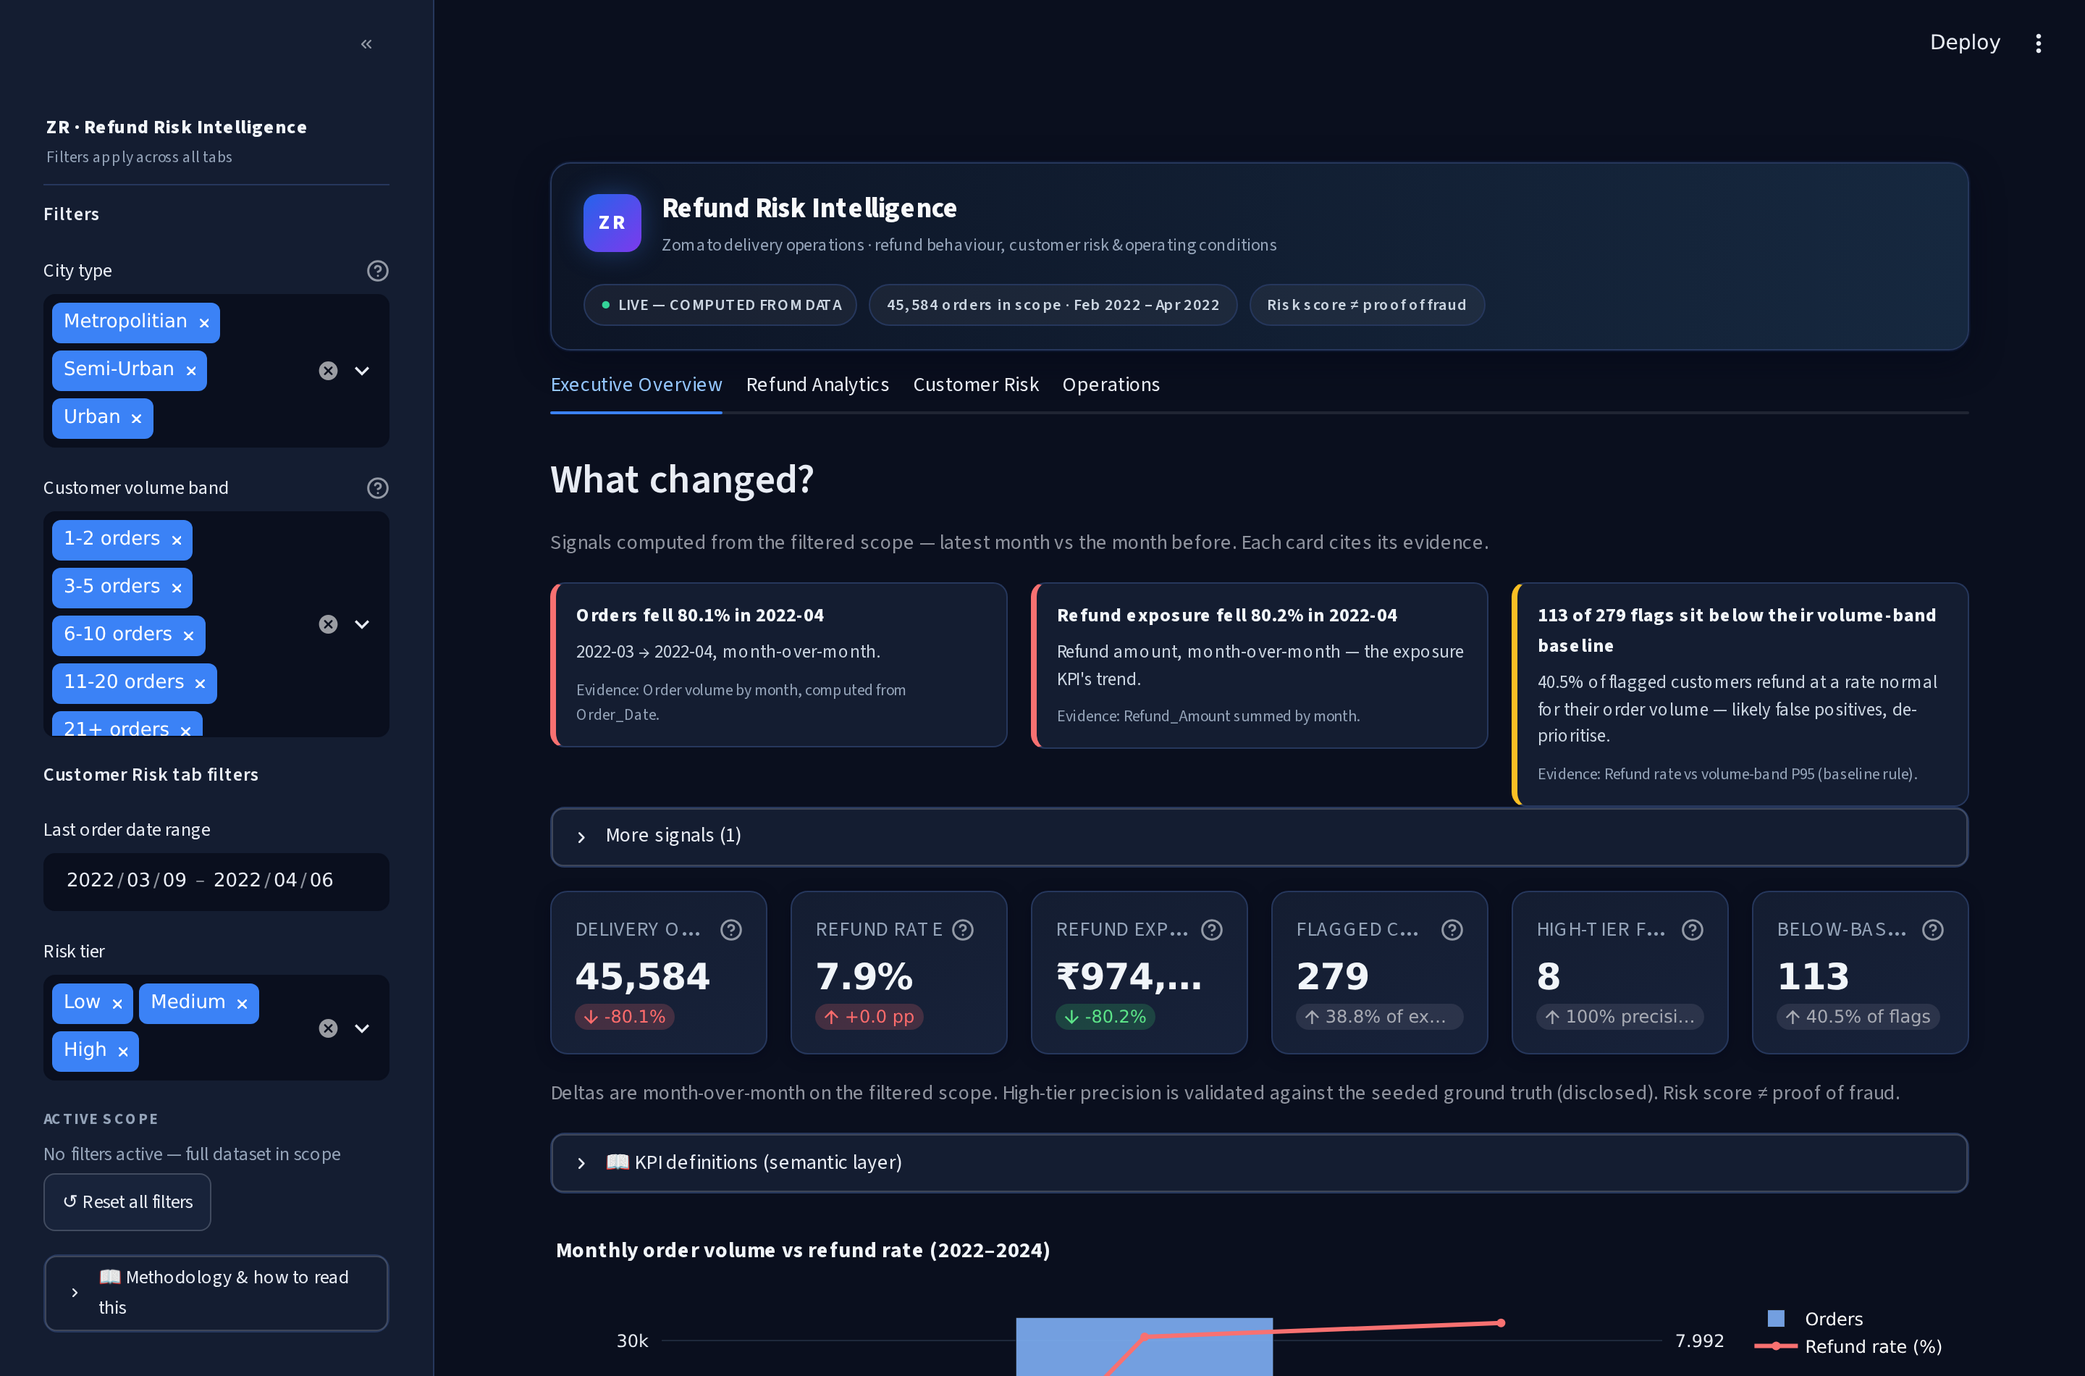
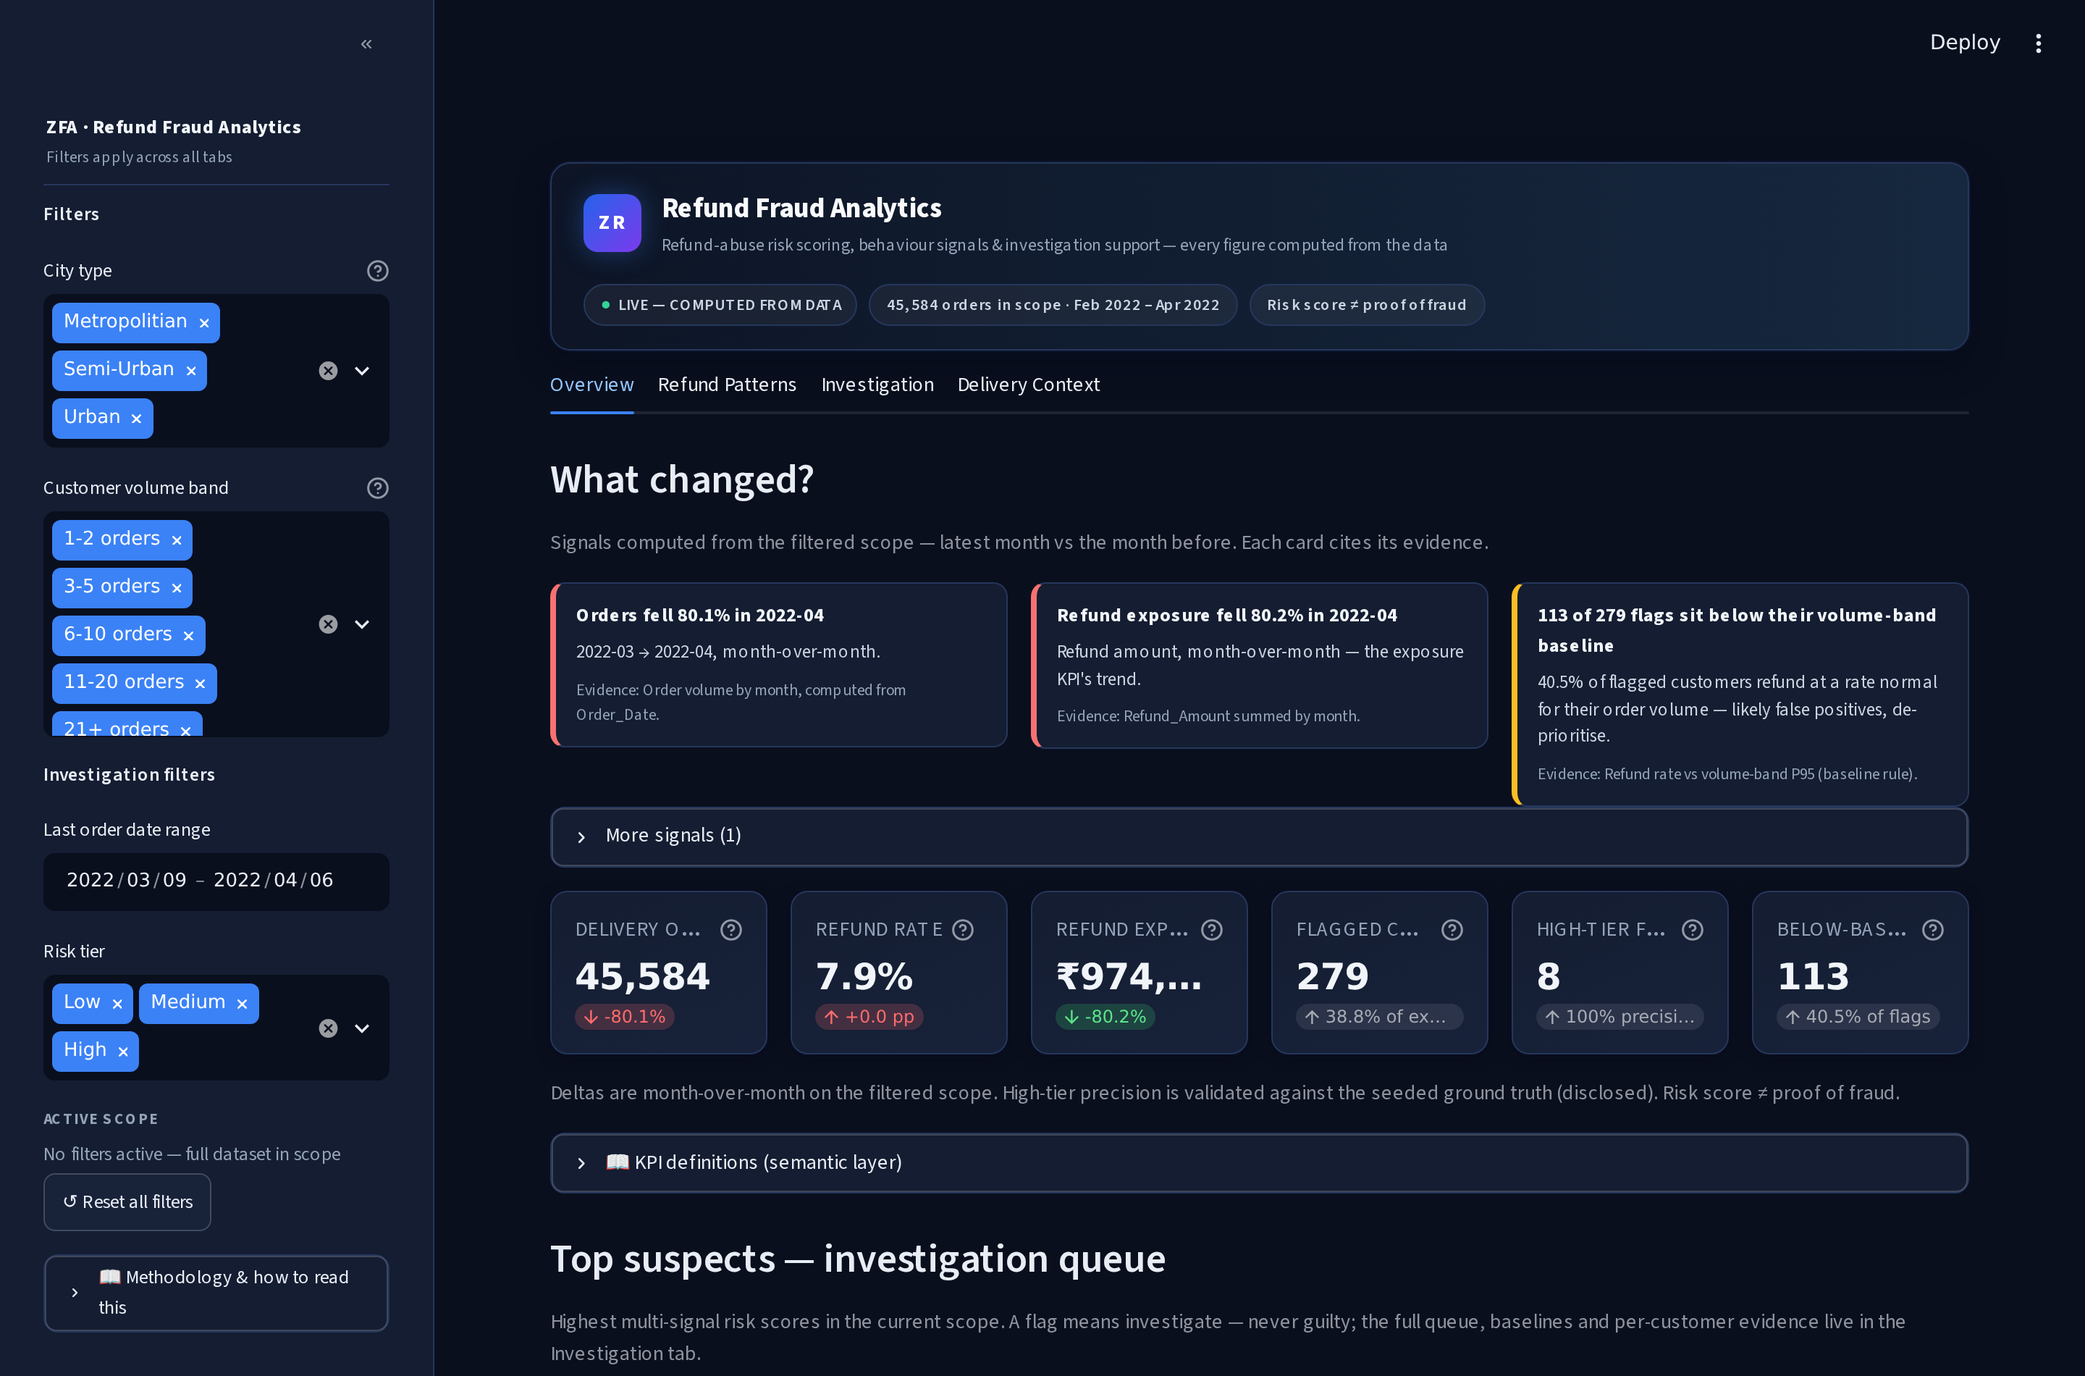
UI: fraud-analytics workflow — queue, typology signals, explainability meters
Reframes the console as a refund-fraud analytics product (matches repo
identity) without touching a single analytic:

- Identity: header band + sidebar now 'Refund Fraud Analytics' with the
  behaviour-signals subtitle; honesty chip kept (risk ≠ proof of fraud)
- Tabs follow the investigation workflow: Overview · Refund Patterns ·
  Investigation · Delivery Context
- NEW Overview 'Top suspects — investigation queue': top 8 by risk score
  with tier badges, refund rate, orders and exposure — the fraud-console
  lead (computed from the existing suspects table)
- NEW Refund Patterns 'Fraud-behaviour signals': typology fingerprint of
  the flagged population — repeat-same-reason share (89.2%, 249/279),
  median reason-repetition (60%), median refund velocity — all from the
  existing risk-engine columns
- 'Explain a flag' upgraded from a plain table to signal METERS: each of
  the 4 signals bar-plotted against the P95 of the flagged population
  (the how-extreme-is-this view), weights shown
- Investigation table: tier + status now render as tinted badges
- 6 fresh screenshots; README capability table for the fraud workflow

Analytics untouched: kpi_engine, risk scoring, SQL, every KPI value.
68/68 tests green incl. both AppTest pins (45,584 / ₹974,344).
QA: 12/12 checks, 0 console errors, all tabs clean, no overflow.

diff --git a/dashboard/app.py b/dashboard/app.py
@@ -4,7 +4,7 @@ A professional multi-tab BI dashboard — every figure is computed live from
 the dataset (45,584 delivery orders). No hardcoded metrics anywhere.
 
 Run with: streamlit run dashboard/app.py
-Tabs: Executive Overview · Refund Analytics · Customer Risk · Operations
+Tabs: Overview · Refund Patterns · Investigation · Delivery Context
 """
 
 import pandas as pd
@@ -206,6 +206,41 @@ section[data-testid="stSidebar"] hr { border-color: var(--z-border); margin: 14p
 }
 .app-footer b { color: var(--z-text2); }
 
+/* ── Investigation queue (Overview) ── */
+.queue-card {
+  background: var(--z-card); border: 1px solid var(--z-border); border-radius: 12px;
+  padding: 6px 14px; margin-top: 6px;
+}
+.sus-row {
+  display: flex; align-items: center; gap: 12px; padding: 8px 4px;
+  border-bottom: 1px solid rgba(38,55,92,0.5); font-size: 12.5px;
+}
+.sus-row:last-child { border-bottom: none; }
+.sus-row.high { border-left: 3px solid var(--z-bad); padding-left: 10px; }
+.sus-row.medium { border-left: 3px solid var(--z-warn); padding-left: 10px; }
+.sus-row.low { border-left: 3px solid var(--z-good); padding-left: 10px; }
+.tier-pill {
+  font-size: 10px; font-weight: 800; letter-spacing: 0.07em; border-radius: 999px;
+  padding: 2px 9px; flex-shrink: 0;
+}
+.tier-pill.high { color: var(--z-bad); background: rgba(248,113,113,0.13); border: 1px solid rgba(248,113,113,0.4); }
+.tier-pill.medium { color: var(--z-warn); background: rgba(251,191,36,0.12); border: 1px solid rgba(251,191,36,0.4); }
+.tier-pill.low { color: var(--z-good); background: rgba(52,211,153,0.12); border: 1px solid rgba(52,211,153,0.4); }
+.sus-id { color: var(--z-text); font-weight: 700; font-variant-numeric: tabular-nums; width: 92px; }
+.sus-metric { color: var(--z-text2); font-variant-numeric: tabular-nums; white-space: nowrap; }
+.sus-metric b { color: var(--z-text); }
+.sus-fill { flex: 1; }
+
+/* ── Signal meters (Explain a flag) ── */
+.meter-card { background: var(--z-card); border: 1px solid var(--z-border); border-radius: 12px; padding: 14px 16px; }
+.meter-row { margin: 10px 0; }
+.meter-head { display: flex; justify-content: space-between; font-size: 12px; color: var(--z-text2); margin-bottom: 4px; }
+.meter-head b { color: var(--z-text); font-variant-numeric: tabular-nums; }
+.meter-track { height: 8px; border-radius: 999px; background: rgba(38,55,92,0.45); overflow: hidden; }
+.meter-fill { height: 100%; border-radius: 999px; background: var(--z-primary); }
+.meter-fill.over { background: linear-gradient(90deg, #F59E0B, var(--z-bad)); }
+.meter-note { font-size: 10.5px; color: var(--z-muted); margin-top: 3px; font-variant-numeric: tabular-nums; }
+
 /* ── Buttons / expanders polish ── */
 .stButton > button {
   border-radius: 8px; border: 1px solid var(--z-border2); font-weight: 600; font-size: 13px;
@@ -231,8 +266,8 @@ def app_header(orders: pd.DataFrame) -> None:
   <div class="ah-left">
     <div class="ah-mark">ZR</div>
     <div>
-      <div class="ah-title">Refund Risk Intelligence</div>
-      <div class="ah-sub">Zomato delivery operations · refund behaviour, customer risk & operating conditions</div>
+      <div class="ah-title">Refund Fraud Analytics</div>
+      <div class="ah-sub">Refund-abuse risk scoring, behaviour signals & investigation support — every figure computed from the data</div>
     </div>
   </div>
   <div class="ah-right">
@@ -516,6 +551,29 @@ def tab_overview(
             for _key, _m in metric_defs["metrics"].items():
                 st.markdown(f"**{_key.replace('_', ' ').title()}** — {_m['definition']}")
 
+    # ── Top suspects — the investigation queue (fraud-console lead) ──
+    if len(suspects):
+        top_n = min(8, len(suspects))
+        rows = ""
+        for _, r in suspects.head(top_n).iterrows():
+            tier = str(r["Risk_Tier"])
+            rows += (
+                f'<div class="sus-row {tier.lower()}">'
+                f'<span class="tier-pill {tier.lower()}">{tier.upper()}</span>'
+                f'<span class="sus-id">#{r["Customer_ID"]}</span>'
+                f'<span class="sus-metric"><b>{r["Fraud_Risk_Score"]:.1f}</b> risk score</span>'
+                f'<span class="sus-metric">{r["Refund_Rate"]:.0f}% refund rate · {int(r["Total_Refunds"])}/{int(r["Total_Orders"])} orders</span>'
+                f'<span class="sus-fill"></span>'
+                f'<span class="sus-metric"><b>₹{r["Total_Refund_Amount"]:,.0f}</b> exposure</span>'
+                f'</div>'
+            )
+        st.subheader("Top suspects — investigation queue")
+        st.caption(
+            "Highest multi-signal risk scores in the current scope. A flag means investigate — never guilty; "
+            "the full queue, baselines and per-customer evidence live in the Investigation tab."
+        )
+        st.markdown(f'<div class="queue-card">{rows}</div>', unsafe_allow_html=True)
+
     # ── Monthly trend: order volume (bars) + refund rate (line, secondary axis)
     m = (
         orders.groupby(orders["Order_Date"].dt.to_period("M"))
@@ -610,7 +668,7 @@ def concentration_curve(orders: pd.DataFrame):
     return x, cum, n, total, k50, k80, float(cum[k10 - 1])
 
 
-def tab_refunds(orders: pd.DataFrame) -> None:
+def tab_refunds(orders: pd.DataFrame, suspects: pd.DataFrame) -> None:
     refunds = orders[orders["Refund_Requested"] == True].copy()  # noqa: E712
 
     # ---- Phase 1: refund exposure concentration (Pareto) ----
@@ -651,6 +709,35 @@ def tab_refunds(orders: pd.DataFrame) -> None:
     r1.metric("Avg refund amount", f"₹{refunds['Refund_Amount'].mean():,.0f}")
     r2.metric("Largest refund", f"₹{refunds['Refund_Amount'].max():,.0f}")
     r3.metric("Refunds per month", f"{len(refunds) / 36:,.0f}")
+
+    # ── Fraud-behaviour signals: what flagged accounts look like ──
+    if len(suspects):
+        reps = suspects["Reason_Repetition_Rate"].dropna()
+        vel = suspects["Refunds_Per_Day"].dropna()
+        st.subheader("Fraud-behaviour signals among flagged customers")
+        st.caption(
+            "The behavioural fingerprint of the flagged population in the current scope — the two "
+            "signals that separate abuse patterns from bad luck: repeating the same refund reason, "
+            "and refunding faster than normal ordering would explain."
+        )
+        s1, s2, s3 = st.columns(3)
+        s1.metric(
+            "Repeat same reason (≥50%)",
+            f"{(reps >= 50).mean() * 100:.1f}%",
+            delta=f"{int((reps >= 50).sum())} of {len(reps)} flagged",
+            delta_color="off",
+            help="Share of flagged customers whose most common refund reason covers at least half of their refunds.",
+        )
+        s2.metric(
+            "Median reason-repetition",
+            f"{reps.median():.0f}%",
+            help="Median share of refunds going to each flagged customer's top reason.",
+        )
+        s3.metric(
+            "Median refund velocity",
+            f"{vel.median():.2f}/day",
+            help="Median refunds per day across the flagged customers' refund window.",
+        )
 
     left, right = st.columns(2)
     with left:
@@ -819,13 +906,19 @@ def tab_customer_risk(filtered: pd.DataFrame, all_suspects: pd.DataFrame) -> Non
             _status_map = {"High": "Investigate first", "Medium": "Watchlist", "Low": "Routine review"}
             tbl["Status"] = tbl["Risk_Tier"].map(_status_map)
 
-            def _tier_color(val):
-                return f"color: {TIER_COLORS.get(val, C_NEUTRAL)}; font-weight: 600"
+            def _tier_badge(val):
+                if val in ("High", "Investigate first"):
+                    return f"background: rgba(248,113,113,0.13); color: {C_BAD}; font-weight: 700"
+                if val in ("Medium", "Watchlist"):
+                    return f"background: rgba(251,191,36,0.12); color: {C_WARN}; font-weight: 700"
+                if val in ("Low", "Routine review"):
+                    return f"background: rgba(52,211,153,0.12); color: {C_GOOD}; font-weight: 700"
+                return f"color: {C_NEUTRAL}"
 
             styler = (
                 tbl.style
-                .map(_tier_color, subset=["Risk_Tier"])
-                .map(_tier_color, subset=["Status"])
+                .map(_tier_badge, subset=["Risk_Tier"])
+                .map(_tier_badge, subset=["Status"])
                 .format(
                     {
                         "Fraud_Risk_Score": "{:.1f}",
@@ -910,27 +1003,43 @@ def tab_customer_risk(filtered: pd.DataFrame, all_suspects: pd.DataFrame) -> Non
         st.write(
             f"**{chosen}** — Risk score **{row['Fraud_Risk_Score']}** ({row['Risk_Tier']})"
         )
-        breakdown = pd.DataFrame(
-            {
-                "Signal": [
-                    "Refund rate (%)",
-                    "Reason repetition rate (%)",
-                    "Refunds per day",
-                    "Avg refund-reason length (chars)",
-                ],
-                "Value": [
-                    row["Refund_Rate"],
-                    row["Reason_Repetition_Rate"],
-                    row["Refunds_Per_Day"],
-                    row["Avg_Reason_Length"],
-                ],
-                "Weight in score": [f"{w:.0%}" for w in RISK_WEIGHTS.values()],
-            }
-        )
-        st.table(breakdown)
+        signals = [
+            ("Refund rate", row["Refund_Rate"], f"{row['Refund_Rate']:.1f}%", 0.40),
+            ("Reason repetition", row["Reason_Repetition_Rate"],
+             f"{row['Reason_Repetition_Rate']:.0f}% same reason", 0.30),
+            ("Refund velocity", row["Refunds_Per_Day"],
+             f"{row['Refunds_Per_Day']:.2f} refunds/day", 0.20),
+            ("Reason length", row["Avg_Reason_Length"],
+             f"{row['Avg_Reason_Length']:.0f} chars avg", 0.10),
+        ]
+        pop = all_suspects  # P95 reference: the flagged population, current scope
+        meters = ""
+        for name, value, text, weight in signals:
+            col_name = {
+                "Refund rate": "Refund_Rate",
+                "Reason repetition": "Reason_Repetition_Rate",
+                "Refund velocity": "Refunds_Per_Day",
+                "Reason length": "Avg_Reason_Length",
+            }[name]
+            p95 = float(pop[col_name].quantile(0.95)) if len(pop) else 0.0
+            pct = min(100.0, (value / p95 * 100)) if p95 > 0 else 0.0
+            over = value >= p95 and p95 > 0
+            fill = "over" if over else ""
+            note = (f"≥ P95 of flagged ({p95:.1f}) — extreme" if over
+                    else f"P95 of flagged: {p95:.1f}")
+            meters += (
+                f'<div class="meter-row">'
+                f'<div class="meter-head"><span>{name} <span style="color:var(--z-muted);">· weight {weight:.0%}</span></span>'
+                f'<b>{text}</b></div>'
+                f'<div class="meter-track"><div class="meter-fill {fill}" style="width:{pct:.0f}%"></div></div>'
+                f'<div class="meter-note">{note}</div>'
+                f'</div>'
+            )
+        st.markdown(f'<div class="meter-card">{meters}</div>', unsafe_allow_html=True)
         st.caption(
-            "Rule-based weighted scoring — full formula and threshold rationale in "
-            "docs/risk_scoring_methodology.md."
+            "Bars show each signal relative to the 95th percentile among all flagged customers "
+            "(current scope) — the 'how extreme is this?' view an analyst needs before acting. "
+            "Rule-based weighted scoring — full formula in docs/risk_scoring_methodology.md."
         )
     else:
         st.info("No customers match the current filters.")
@@ -1046,7 +1155,7 @@ def main() -> None:
 
     # ── Sidebar: product mark + filters + scope status + reset + methodology ──
     st.sidebar.markdown(
-        '<div class="side-mark"><div class="sm-t">ZR · Refund Risk Intelligence</div>'
+        '<div class="side-mark"><div class="sm-t">ZFA · Refund Fraud Analytics</div>'
         '<div class="sm-s">Filters apply across all tabs</div></div>',
         unsafe_allow_html=True,
     )
@@ -1077,7 +1186,7 @@ def main() -> None:
         ]
 
     # ── Customer Risk tab filters (tier + last-order date) ──
-    st.sidebar.markdown("**Customer Risk tab filters**")
+    st.sidebar.markdown("**Investigation filters**")
     min_date = suspects["Last_Order_Date"].min().date()
     max_date = suspects["Last_Order_Date"].max().date()
     date_range = st.sidebar.date_input(
@@ -1133,12 +1242,12 @@ def main() -> None:
         return
 
     tab1, tab2, tab3, tab4 = st.tabs(
-        ["Executive Overview", "Refund Analytics", "Customer Risk", "Operations"]
+        ["Overview", "Refund Patterns", "Investigation", "Delivery Context"]
     )
     with tab1:
         tab_overview(orders_f, suspects_scope, truth=truth, metric_defs=metric_defs)
     with tab2:
-        tab_refunds(orders_f)
+        tab_refunds(orders_f, suspects_scope)
     with tab3:
         tab_customer_risk(filtered, suspects)
     with tab4:

diff --git a/README.md b/README.md
@@ -19,7 +19,7 @@ penalizing legitimate customers?**
 > A dashboard a fraud-operations manager can open cold and know what to do next:
 > **WHAT changed → WHERE it concentrated → WHO to investigate → WHAT it costs to be wrong.**
 
-![Refund Risk Intelligence console — header band, What changed? cards, KPI strip](docs/screenshots/v2_console_overview.png)
+![Refund Fraud Analytics console — header band, What changed? cards, KPI strip](docs/screenshots/v2_console_overview.png)
 
 | Capability | What it does |
 |---|---|
@@ -35,9 +35,24 @@ penalizing legitimate customers?**
 
 ✅ **68 automated tests** — every dashboard number reconciled with the Python/SQL pipeline.
 
-![Investigation list — tier table, explain-a-flag, AI assistant](docs/screenshots/v2_customer_risk.png)
+**Fraud-workflow navigation** — Overview · Refund Patterns · Investigation · Delivery Context:
 
-![Refund Analytics — Pareto concentration and distributions](docs/screenshots/v2_refund_analytics.png)
+| Fraud-analytics capability | What it shows |
+|---|---|
+| 🔎 **Investigation queue (Overview)** | Top suspects the moment the app opens — tier badge, risk score, refund rate, exposure; a flag means investigate, never guilty |
+| 🧬 **Fraud-behaviour signals (Refund Patterns)** | The typology fingerprint of the flagged population: 89.2% repeat the same refund reason in ≥50% of refunds, median reason-repetition 60%, median refund velocity — computed live from the current scope |
+| 📊 **Signal meters (Investigation)** | "Explain a flag" as a visual: each of the 4 risk signals plotted against the 95th percentile of the flagged population — the how-extreme-is-this view before an analyst acts |
+| 🏷 **Tier badges** | Investigation table renders tier + status as tinted badges, not just colored text |
+
+![Investigation queue — top suspects with tier badges, scores and exposure](docs/screenshots/v2_investigation_queue.png)
+
+![Signal meters — each signal vs the P95 of the flagged population](docs/screenshots/v2_investigation_meters.png)
+
+![Investigation list — tier badges, baseline strip, AI assistant](docs/screenshots/v2_customer_risk.png)
+
+![Refund Patterns — Pareto concentration and fraud-behaviour signals](docs/screenshots/v2_refund_patterns.png)
+
+![Delivery Context — operating conditions behind the refund rates](docs/screenshots/v2_delivery_context.png)
 
 ---
 
